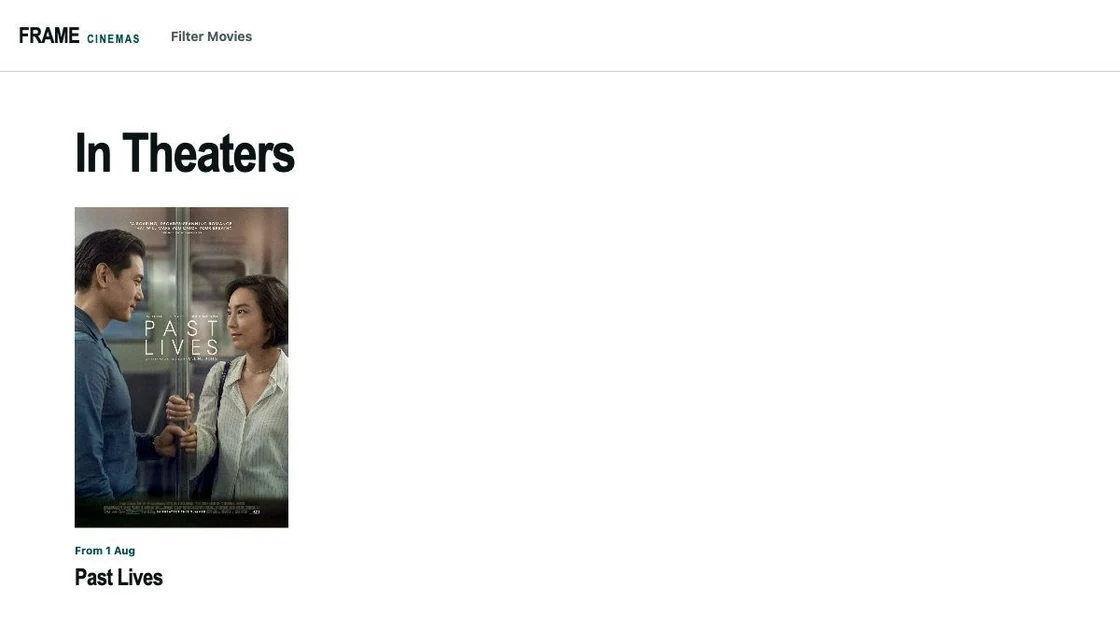
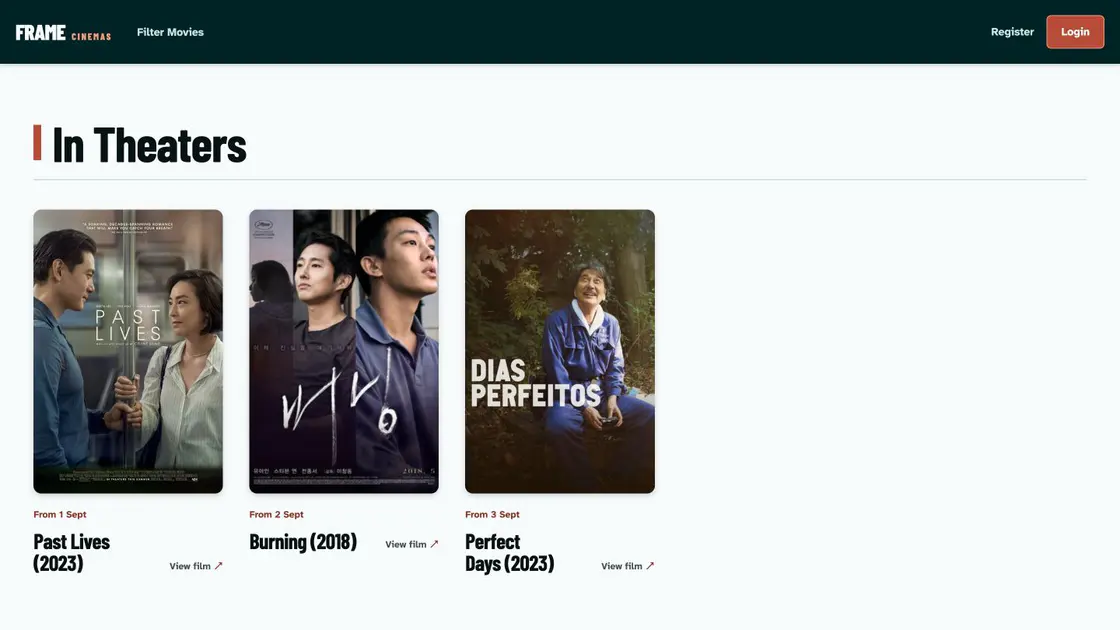
Refresh project galleries

diff --git a/script.js b/script.js
@@ -76,14 +76,15 @@ const projectDetails = {
     engineering: "A Python data pipeline reconciles 548 MBIE rent areas and 412 Police areas against 172 LINZ suburbs. The standalone dashboard turns the result into a map, rankings, distributions, regional comparisons, and a rent-versus-safety view.",
     evidence: ["Rent and crime aligned to July 2025–June 2026", "Map, rankings, distributions, and regional comparisons", "Source areas and missing data remain visible"],
     stack: "Python · MBIE Market Rent API v2 · NZ Police data · LINZ · Leaflet · HTML",
-    visual: {
+    visuals: [{
       src: "assets/newstart-nz-preview.webp?v=wide-dashboard",
       srcset: "assets/newstart-nz-preview.webp?v=wide-dashboard 560w, assets/newstart-nz-preview@2x.webp?v=wide-dashboard 1120w",
       sizes: "(max-width: 680px) calc(100vw - 72px), 700px",
       alt: "NewStart NZ dashboard showing Auckland filters, map, rent and safety rankings, and comparison charts",
+      caption: "Rental and safety dashboard",
       width: 1120,
       height: 603,
-    },
+    }],
   },
   skillpath: {
     title: "SkillPath",
@@ -92,14 +93,22 @@ const projectDetails = {
     engineering: "The React client connects to an ASP.NET Core API backed by EF Core and SQLite. A shared curriculum and progress model supports multiple learning paths, the API grades answers, and each module remembers where the learner stopped.",
     evidence: ["Structured learning paths and ordered modules", "Lessons, knowledge checks, and practice modes", "Persistent progress and per-module resume position", "Role-protected content administration"],
     stack: "React 19 · TypeScript 6 · ASP.NET Core (.NET 10) · EF Core 10 · SQLite",
-    visual: {
-      src: "assets/skillpath-dashboard-wide.webp?v=latest-home",
-      srcset: "assets/skillpath-dashboard-wide.webp?v=latest-home 560w, assets/skillpath-dashboard-wide@2x.webp?v=latest-home 1120w",
+    visuals: [{
+      src: "assets/skillpath-dashboard-wide.webp?v=learning-areas",
+      srcset: "assets/skillpath-dashboard-wide.webp?v=learning-areas 560w, assets/skillpath-dashboard-wide@2x.webp?v=learning-areas 1120w",
       sizes: "(max-width: 680px) calc(100vw - 72px), 680px",
       alt: "SkillPath homepage presenting structured learning areas for people starting in IT",
+      caption: "Learning areas",
       width: 1120,
       height: 630,
-    },
+    }, {
+      src: "assets/skillpath-login-interface.webp?v=current-ui",
+      sizes: "(max-width: 680px) calc(100vw - 72px), 680px",
+      alt: "SkillPath sign-in page with progress and lesson continuity features",
+      caption: "Account and progress continuity",
+      width: 1120,
+      height: 630,
+    }],
   },
   movies: {
     title: "Movies Management App",
@@ -108,14 +117,29 @@ const projectDetails = {
     engineering: "JWT authentication and role checks protect API behaviour; EF Core models persistence while the UI handles uploads, maps, pagination, and filters.",
     evidence: ["Role-based access", "Image and map inputs", "Pagination and filtering"],
     stack: ".NET 9 · React 19 · EF Core · SQL Server · Azure",
-    visual: {
-      src: "assets/movies-management-interface-wide.webp?v=frame-authentic",
-      srcset: "assets/movies-management-interface-wide.webp?v=frame-authentic 560w, assets/movies-management-interface-wide@2x.webp?v=frame-authentic 1120w",
+    visuals: [{
+      src: "assets/movies-management-interface-wide.webp?v=current-ui",
+      srcset: "assets/movies-management-interface-wide.webp?v=current-ui 560w, assets/movies-management-interface-wide@2x.webp?v=current-ui 1120w",
       sizes: "(max-width: 680px) calc(100vw - 72px), 620px",
-      alt: "FRAME CINEMAS homepage showing Past Lives in the In Theaters section",
+      alt: "FRAME CINEMAS homepage showing the current In Theaters programme",
+      caption: "Current cinema programme",
       width: 1120,
       height: 630,
-    },
+    }, {
+      src: "assets/movies-browse-interface.webp?v=current-ui",
+      sizes: "(max-width: 680px) calc(100vw - 72px), 620px",
+      alt: "FRAME CINEMAS movie filtering interface with title, genre, status, and pagination controls",
+      caption: "Browse and filter movies",
+      width: 1120,
+      height: 630,
+    }, {
+      src: "assets/movies-detail-interface.webp?v=current-ui",
+      sizes: "(max-width: 680px) calc(100vw - 72px), 620px",
+      alt: "FRAME CINEMAS movie detail page with poster, genres, trailer area, and cinema information",
+      caption: "Movie details and screening information",
+      width: 1120,
+      height: 630,
+    }],
   },
 };
 
@@ -124,8 +148,7 @@ const projectOpeners = [...document.querySelectorAll("[data-project-open]")];
 const projectClose = document.querySelector("[data-project-close]");
 const projectDialogTitle = document.querySelector("[data-project-dialog-title]");
 const projectDialogLead = document.querySelector("[data-project-dialog-lead]");
-const projectDialogVisual = document.querySelector("[data-project-dialog-visual]");
-const projectDialogImage = document.querySelector("[data-project-dialog-image]");
+const projectDialogGallery = document.querySelector("[data-project-dialog-gallery]");
 const projectDialogProblem = document.querySelector("[data-project-dialog-problem]");
 const projectDialogEngineering = document.querySelector("[data-project-dialog-engineering]");
 const projectDialogEvidence = document.querySelector("[data-project-dialog-evidence]");
@@ -143,13 +166,26 @@ projectOpeners.forEach((button) => {
     projectDialogProblem.textContent = project.problem;
     projectDialogEngineering.textContent = project.engineering;
     projectDialogStack.textContent = project.stack;
-    projectDialogVisual.hidden = false;
-    projectDialogImage.src = project.visual.src;
-    projectDialogImage.srcset = project.visual.srcset;
-    projectDialogImage.sizes = project.visual.sizes;
-    projectDialogImage.alt = project.visual.alt;
-    projectDialogImage.width = project.visual.width;
-    projectDialogImage.height = project.visual.height;
+    projectDialogGallery.hidden = false;
+    projectDialogGallery.dataset.count = String(project.visuals.length);
+    projectDialogGallery.replaceChildren(
+      ...project.visuals.map((visual) => {
+        const figure = document.createElement("figure");
+        const image = document.createElement("img");
+        image.src = visual.src;
+        if (visual.srcset) image.srcset = visual.srcset;
+        image.sizes = visual.sizes;
+        image.alt = visual.alt;
+        image.width = visual.width;
+        image.height = visual.height;
+        image.loading = "lazy";
+
+        const caption = document.createElement("figcaption");
+        caption.textContent = visual.caption;
+        figure.append(image, caption);
+        return figure;
+      }),
+    );
 
     projectDialogEvidence.replaceChildren(
       ...project.evidence.map((entry) => {

diff --git a/index.html b/index.html
@@ -17,8 +17,8 @@
     <meta property="og:url" content="https://pds1123.github.io/" />
     <link rel="canonical" href="https://pds1123.github.io/" />
     <link rel="icon" href="assets/favicon.svg" type="image/svg+xml" />
-    <link rel="stylesheet" href="styles.css?v=motion-pass-4" />
-    <script src="script.js?v=motion-pass-6" defer></script>
+    <link rel="stylesheet" href="styles.css?v=project-gallery-1" />
+    <script src="script.js?v=project-gallery-1" defer></script>
     <title>Disi Pan | Full-stack Developer in Auckland</title>
   </head>
 
@@ -132,8 +132,8 @@
                   <p>SkillPath</p>
                 </div>
                 <img
-                  src="assets/skillpath-dashboard-wide.webp?v=latest-home"
-                  srcset="assets/skillpath-dashboard-wide.webp?v=latest-home 560w, assets/skillpath-dashboard-wide@2x.webp?v=latest-home 1120w"
+                  src="assets/skillpath-dashboard-wide.webp?v=learning-areas"
+                  srcset="assets/skillpath-dashboard-wide.webp?v=learning-areas 560w, assets/skillpath-dashboard-wide@2x.webp?v=learning-areas 1120w"
                   sizes="(max-width: 760px) calc(100vw - 48px), 1040px"
                   alt="SkillPath homepage presenting structured learning areas for people starting in IT"
                   width="1120"
@@ -167,10 +167,10 @@
                   <p>Movies Management App</p>
                 </div>
                 <img
-                  src="assets/movies-management-interface-wide.webp?v=frame-authentic"
-                  srcset="assets/movies-management-interface-wide.webp?v=frame-authentic 560w, assets/movies-management-interface-wide@2x.webp?v=frame-authentic 1120w"
+                  src="assets/movies-management-interface-wide.webp?v=current-ui"
+                  srcset="assets/movies-management-interface-wide.webp?v=current-ui 560w, assets/movies-management-interface-wide@2x.webp?v=current-ui 1120w"
                   sizes="(max-width: 760px) calc(100vw - 48px), 1040px"
-                  alt="FRAME CINEMAS homepage showing Past Lives in the In Theaters section"
+                  alt="FRAME CINEMAS homepage showing the current In Theaters programme"
                   width="1120"
                   height="630"
                 />
@@ -259,9 +259,7 @@
       <div class="dialog-body">
         <h2 id="project-dialog-title" data-project-dialog-title>Project details</h2>
         <p class="dialog-lead" data-project-dialog-lead></p>
-        <figure class="dialog-visual" data-project-dialog-visual hidden>
-          <img data-project-dialog-image alt="" />
-        </figure>
+        <div class="dialog-gallery" data-project-dialog-gallery hidden></div>
         <div class="dialog-grid">
           <section><h3>Problem</h3><p data-project-dialog-problem></p></section>
           <section><h3>Engineering</h3><p data-project-dialog-engineering></p></section>

diff --git a/styles.css b/styles.css
@@ -781,20 +781,44 @@ a {
   font-size: 19px;
 }
 
-.dialog-visual {
+.dialog-gallery {
+  display: grid;
   margin: 34px 0 0;
+  grid-template-columns: repeat(2, minmax(0, 1fr));
+  gap: 12px;
+}
+
+.dialog-gallery[hidden] {
+  display: none;
+}
+
+.dialog-gallery figure {
+  margin: 0;
   overflow: hidden;
   border: 1px solid var(--line);
   border-radius: 10px;
   background: var(--surface);
 }
 
-.dialog-visual img {
+.dialog-gallery figure:first-child,
+.dialog-gallery[data-count="2"] figure {
+  grid-column: 1 / -1;
+}
+
+.dialog-gallery img {
+  display: block;
   width: 100%;
   height: auto;
 }
 
-.project-dialog[open] .dialog-visual {
+.dialog-gallery figcaption {
+  padding: 10px 12px 11px;
+  color: var(--ink-soft);
+  font-size: 13px;
+  font-weight: 650;
+}
+
+.project-dialog[open] .dialog-gallery {
   animation: dialog-visual-arrive 420ms 80ms var(--ease-out) both;
 }
 
@@ -1042,6 +1066,14 @@ a {
 
   .social-links {
     gap: 18px;
+  }
+
+  .dialog-gallery {
+    grid-template-columns: 1fr;
+  }
+
+  .dialog-gallery figure {
+    grid-column: auto;
   }
 
   .footer-inner {
